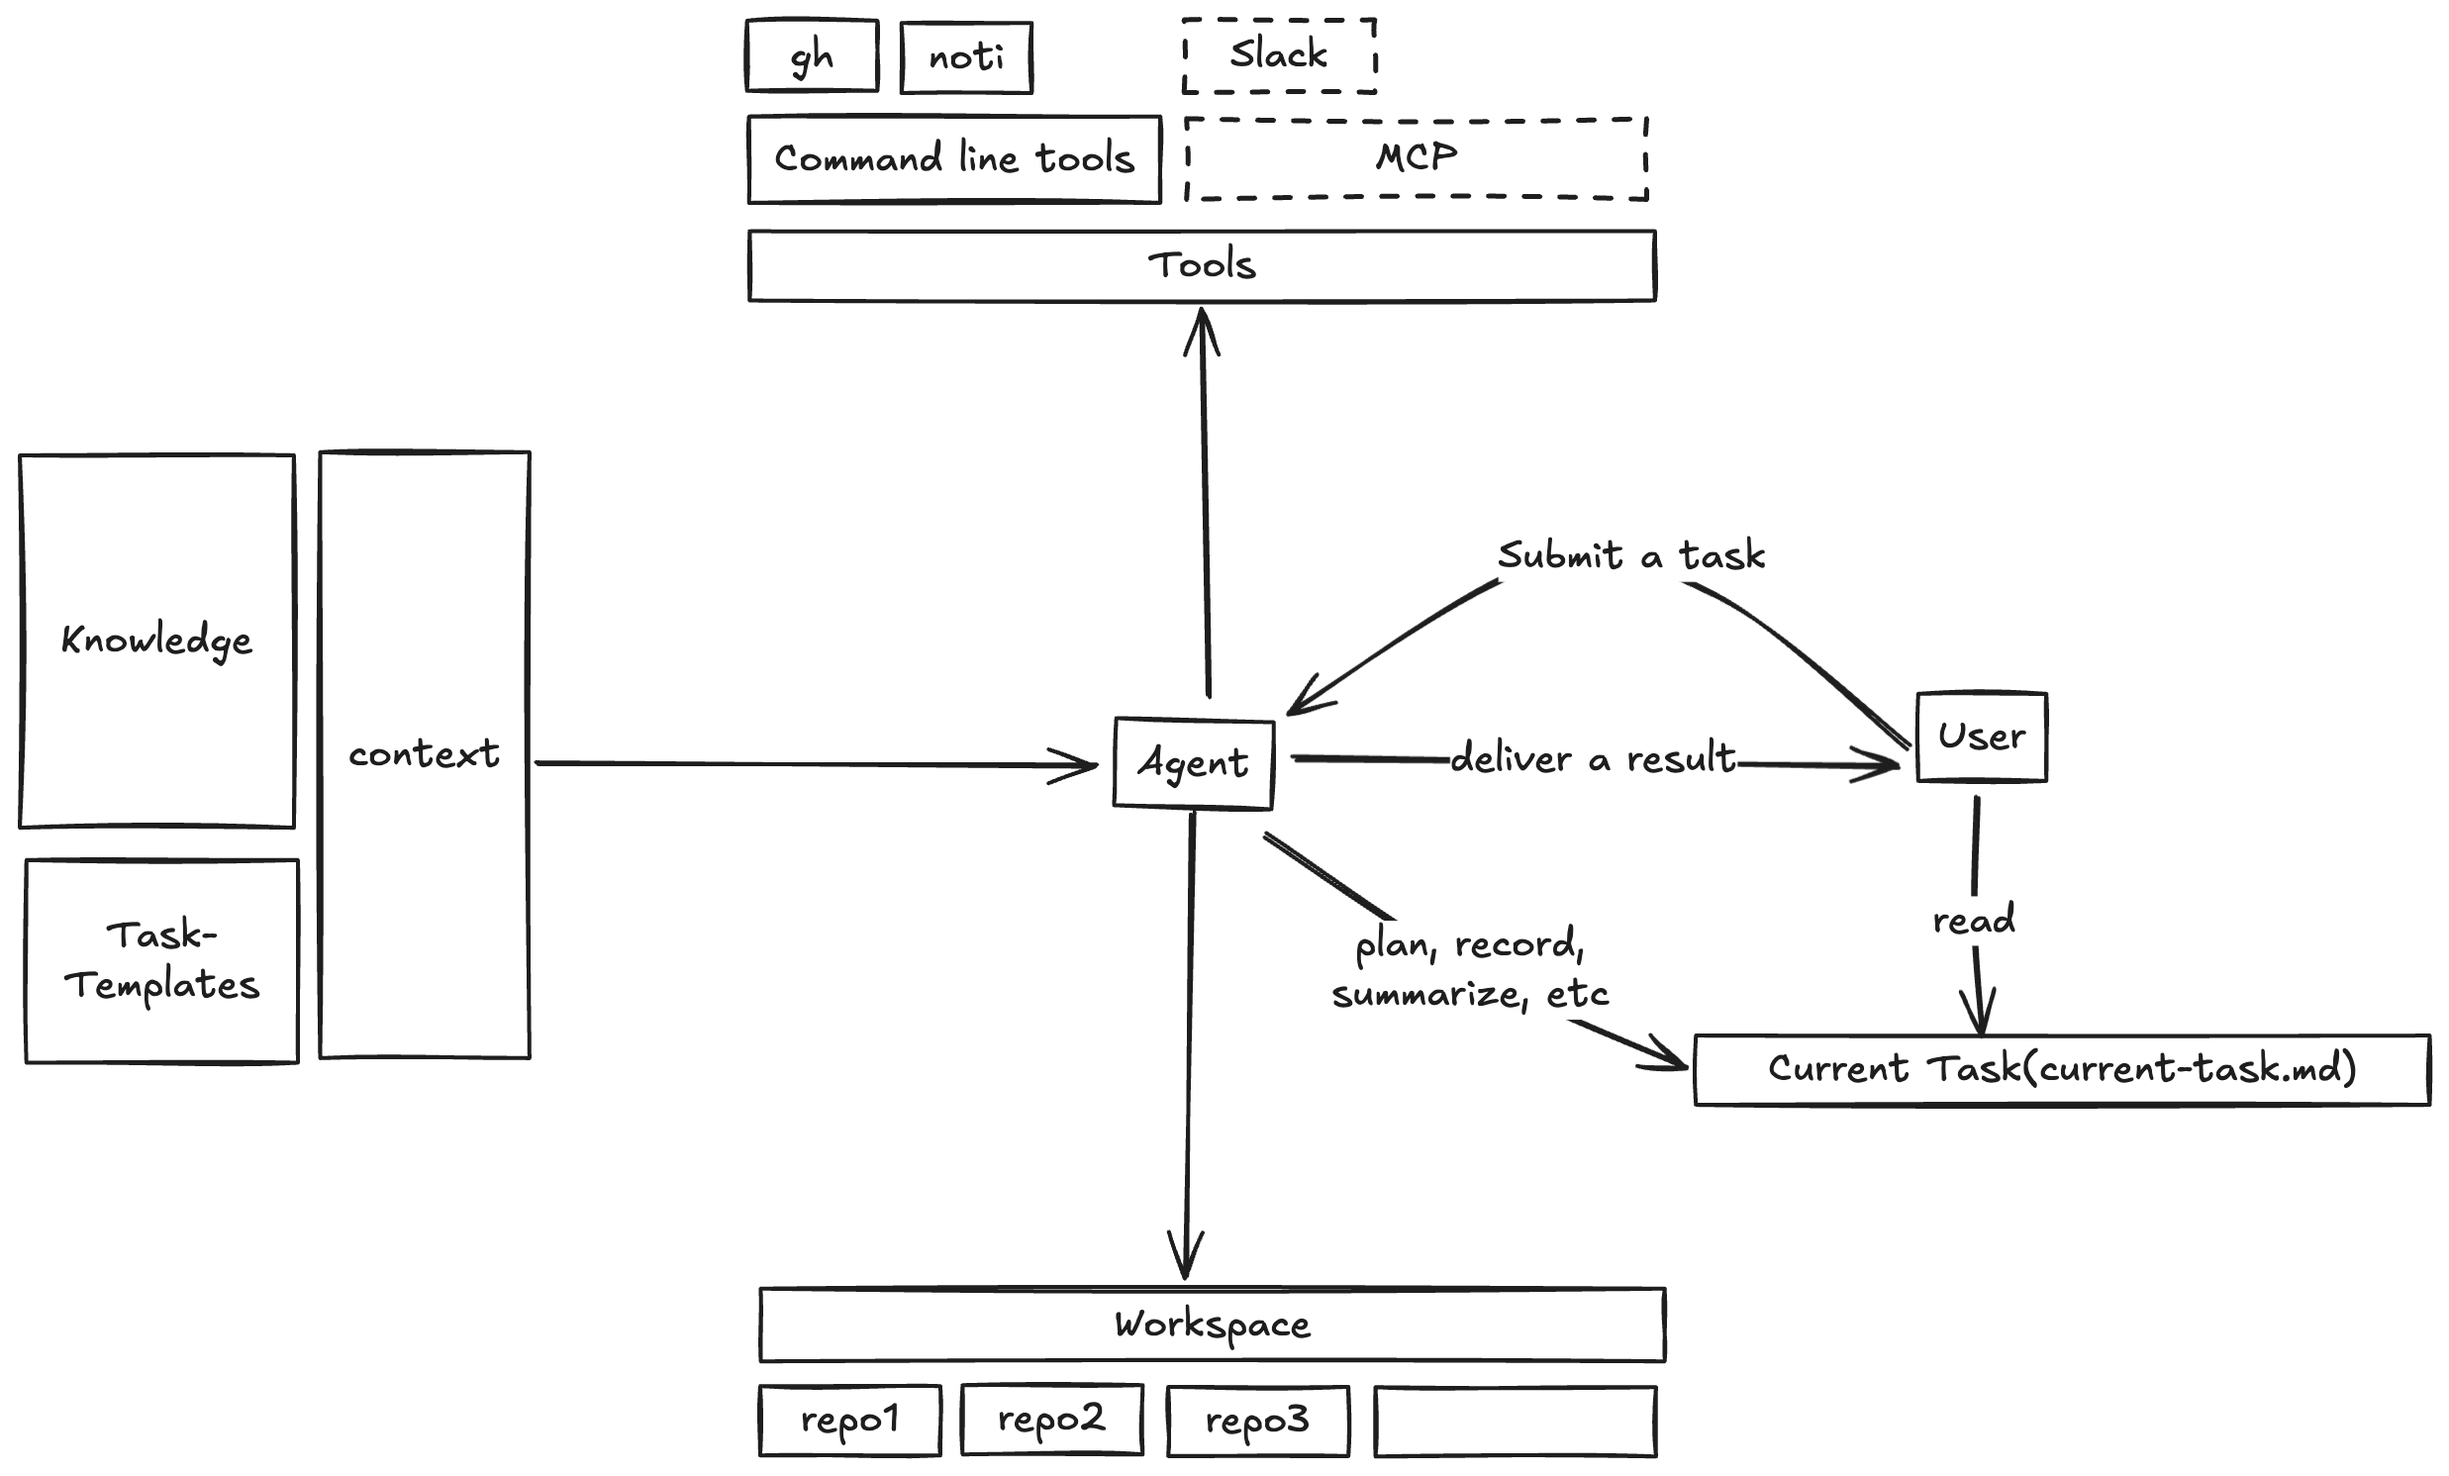
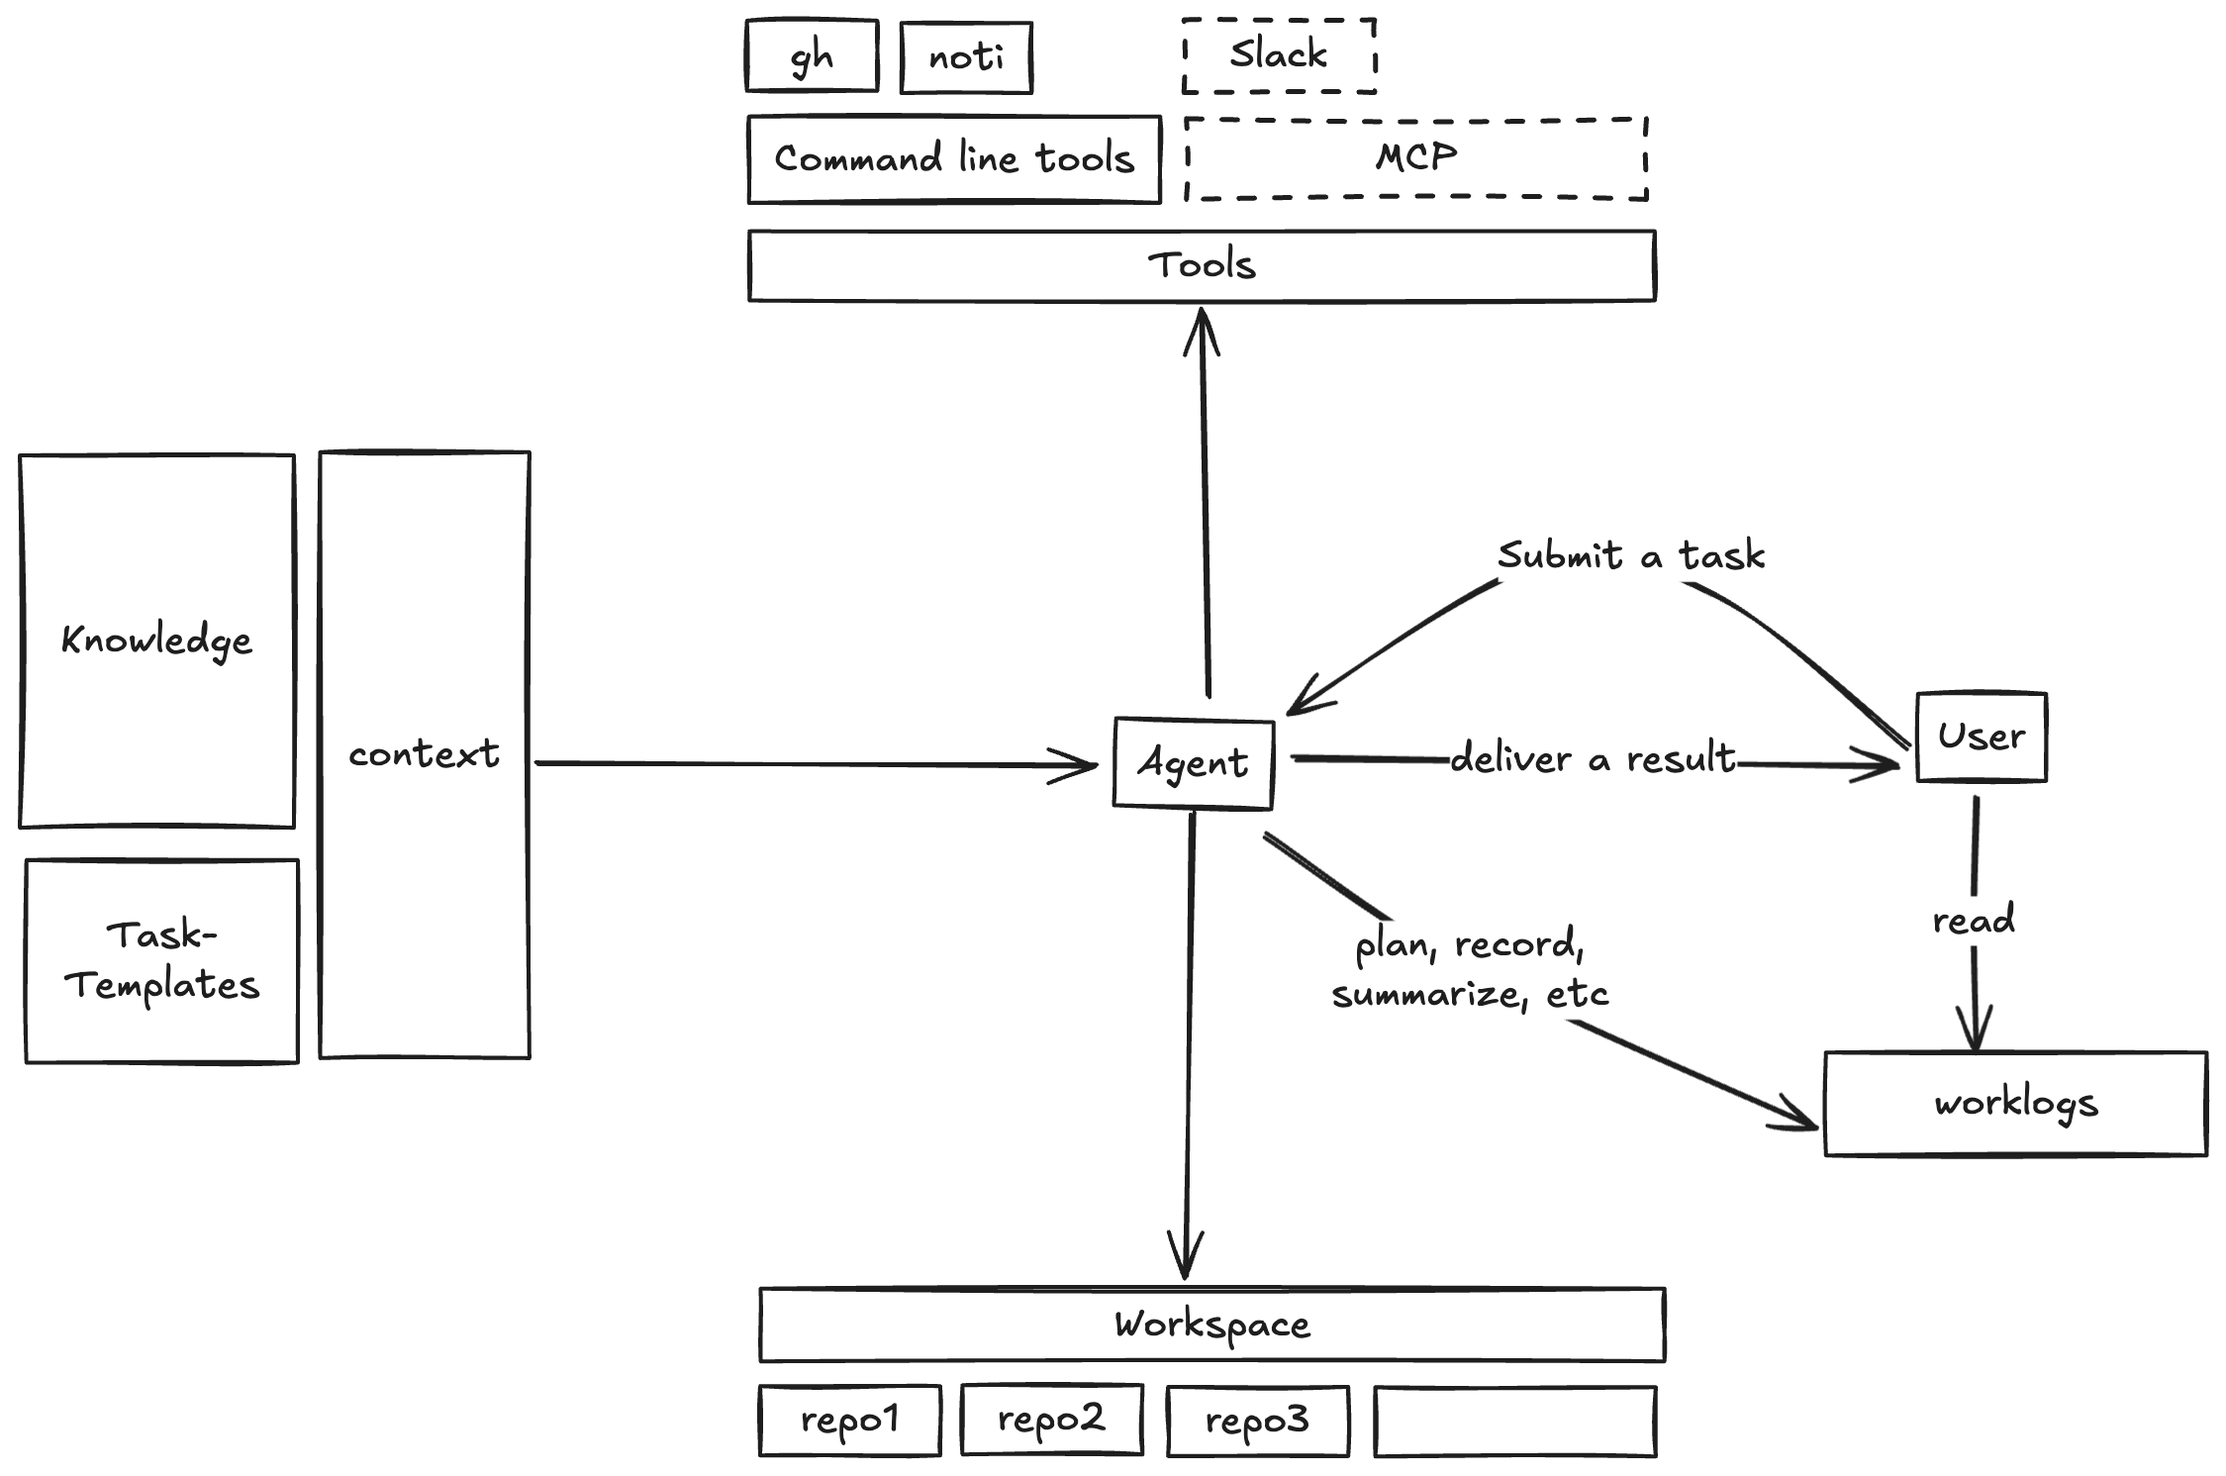
Update arch.excalidraw with new dimensions and text for elements; modify start.md to include worklogs directory and update task planning instructions.

diff --git a/start.md b/start.md
@@ -8,6 +8,8 @@ In the `/task-templates` folder, you can find a list of task templates.
 
 In the `/knowledge` folder, you can find a list of documents.
 
+In the `/worklogs` folder, you can find a list of worklogs for excuted tasks.
+
 If any of the above directories are missing, please directly create them.
 
 ---
@@ -16,12 +18,11 @@ How to use me:
 
 - Always review all documents in the `/knowledge` folder first
 - Always review all task templates in the `/task-templates` folder first
-- Recreate the `/current-task.md` file before starting a new task by `rm current-task.md && touch current-task.md`
-- After understanding the task, create a very defailed plan in `/current-task.md` include how you will complete the task step by step, and how you will delivery the task.
-- Follow the plan to complete the task. Update the `/current-task.md` file with progress.
+- After understanding the task, create a very defailed plan file in the `/worklogs` folder, include how you will complete the task step by step, and how you will delivery the task. The worklog file name format is `YYYYMMDD-HHMM-<task-short-summary>.md`.
+- Follow the plan to complete the task. Update the worklog file with progress.
 - Once the task is completed and delivered:
   - Notify to the user when the task is done, done means both completed and delivered (Important!)
-  - summarize the following into the end of the `/current-task.md` file:
+  - summarize the following into the end of the worklog file:
     - what you did
     - what problems you encountered that you think it's difficult, and how you solved them
     - new knowledge and experience that you think is worth to be added into the `/knowledge` folder and the reason why.
